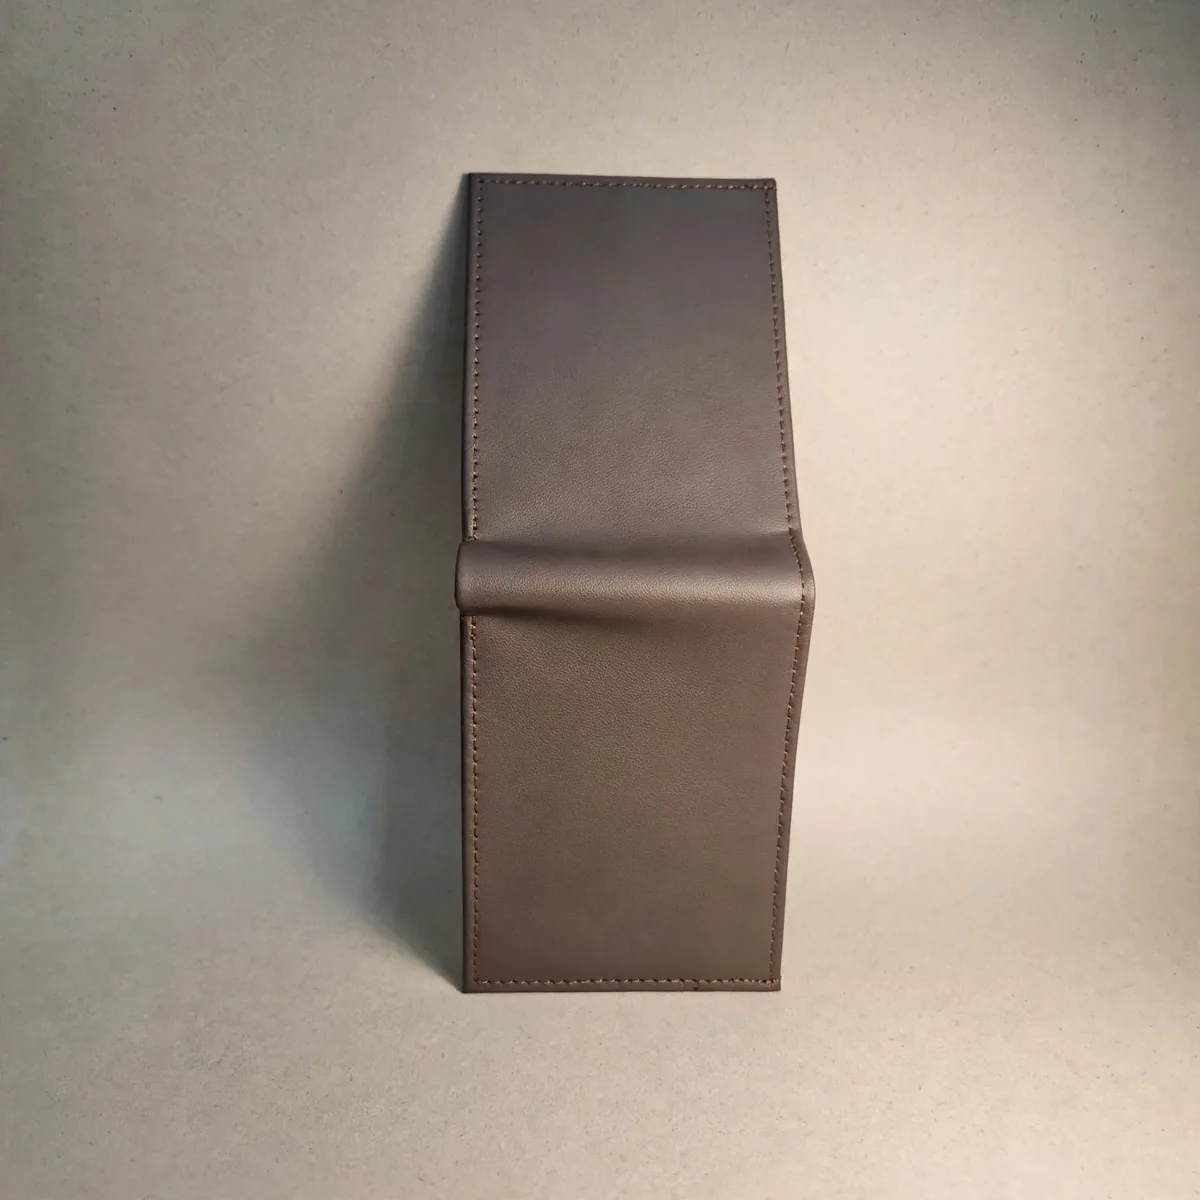
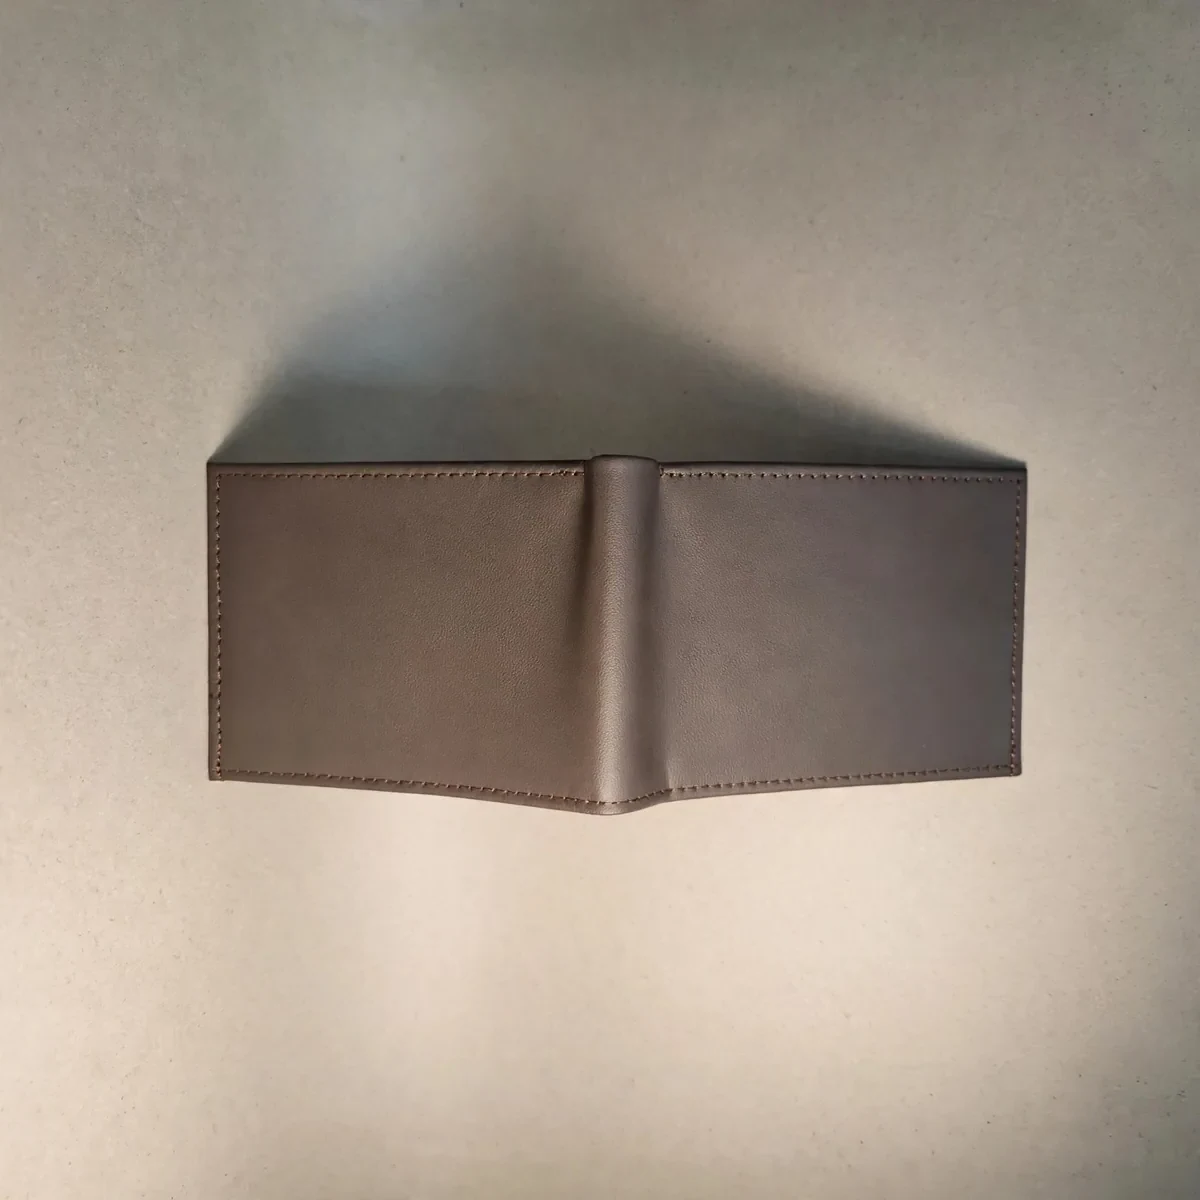
Fix orientation for Camel Classic and Cognac Stripe wallets

diff --git a/assets/js/products.js b/assets/js/products.js
@@ -43,8 +43,8 @@ const LEATHER_PRODUCTS = [
     desc: "Black meets dark brown pebbled leather — a two-tone bifold with real character. The grain does the talking; the stitching keeps it together for years.",
     details: ["Pebbled genuine leather, two-tone panels", "Multiple card slots + note compartments", "Hand-stitched edges", "Classic bifold fold"] },
   { id: "wallet-stripe", name: "Cognac Stripe Bifold", cat: "wallets",
-    price: 1600, oldPrice: 2000, img: "light/taj-wallet4-brown-light.webp",
-    gallery: ["light/taj-wallet4-brown-light.webp","light/p4-closed-front-light.webp","light/p4-open-exterior-a-light.webp","light/p4-with-box-light.webp"],
+    price: 1600, oldPrice: 2000, img: "light/p4-closed-front-light.webp",
+    gallery: ["light/p4-closed-front-light.webp","light/p4-open-exterior-a-light.webp","light/p4-with-box-light.webp","light/taj-wallet4-brown-light.webp"],
     colors: ["Brown", "Black"], sizes: ["Standard"],
     badge: "-20%",
     desc: "Warm brown pebbled leather with a thin black stripe down the middle — subtle, sharp, and easy to spot in a drawer full of wallets.",
